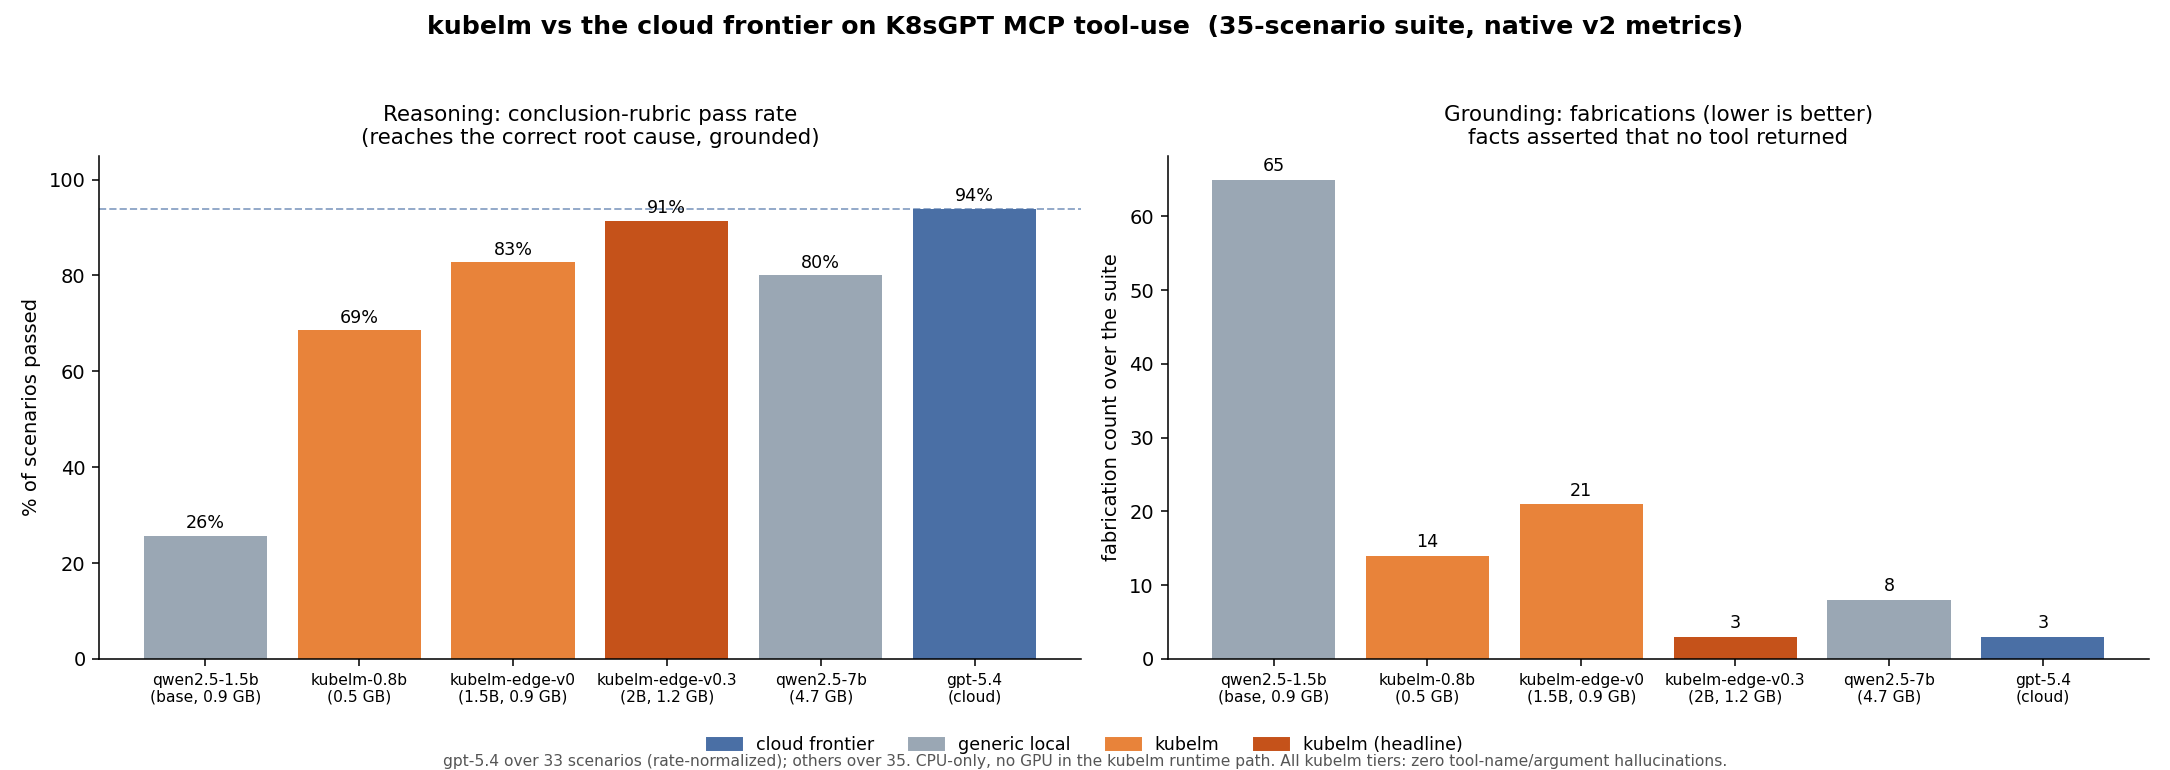
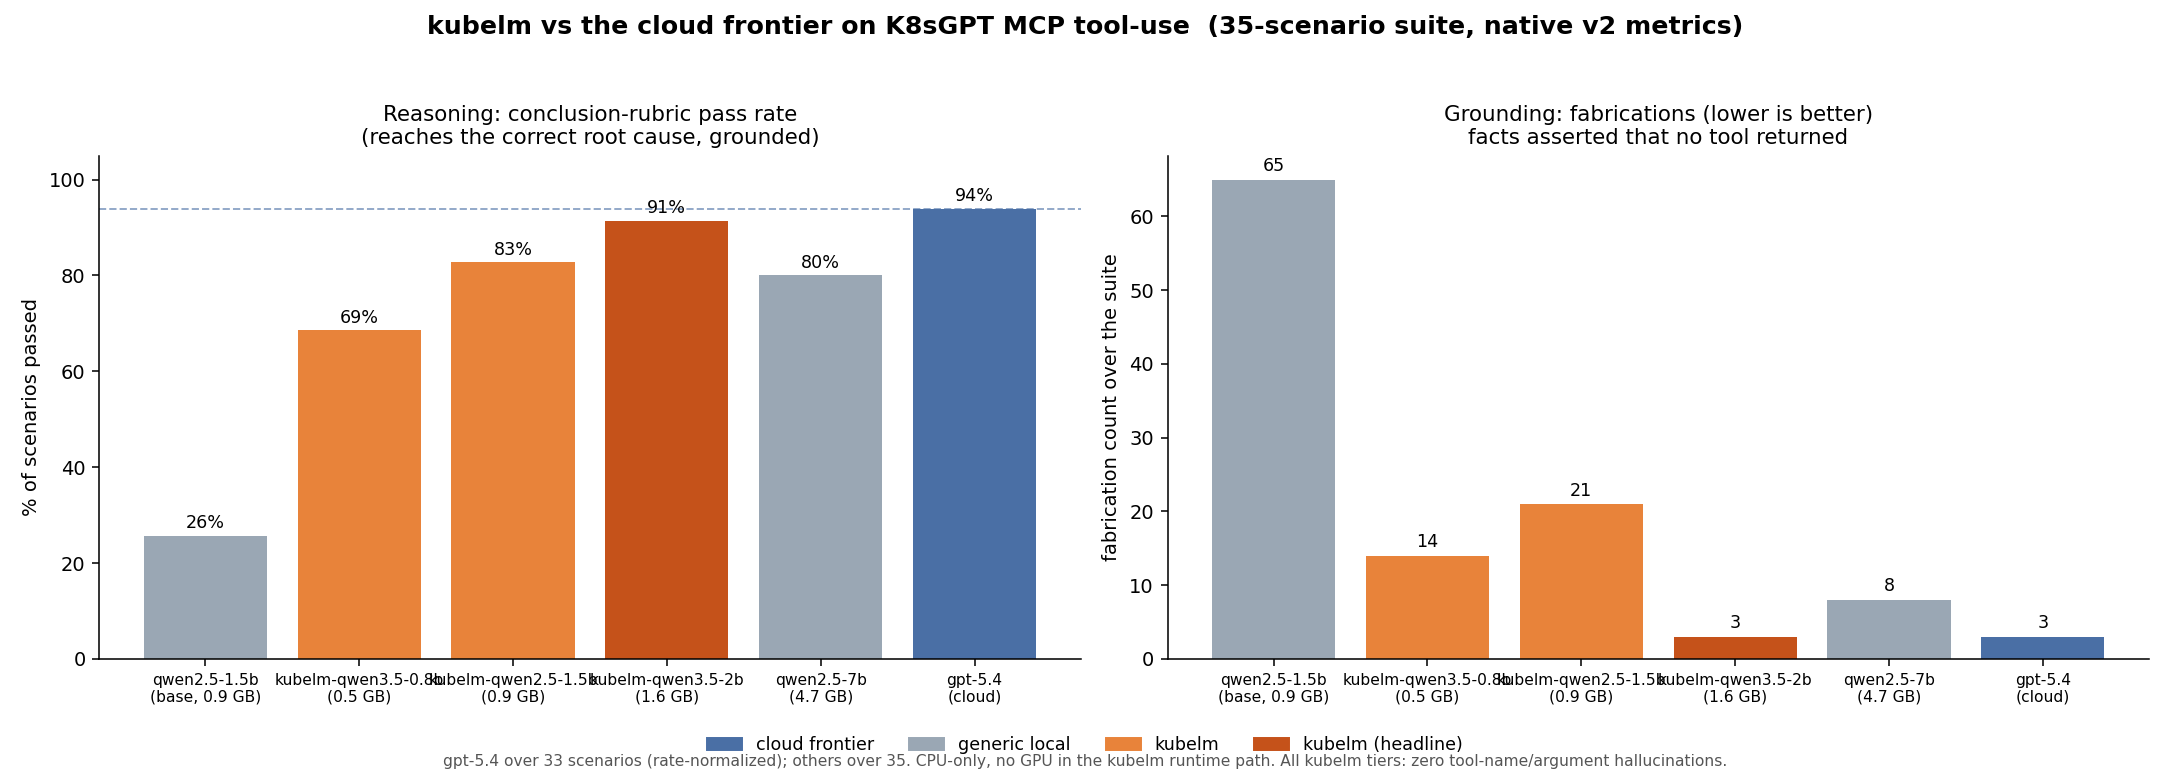
Rename models to kubelm-<base>-<size>-v<n> across repo + docs
Adopt the new naming convention everywhere current-facing:
  kubelm-edge-v0    -> kubelm-qwen2.5-1.5b-v1
  kubelm-edge-v0.3  -> kubelm-qwen3.5-2b-v1
  0.8B (unreleased) -> kubelm-qwen3.5-0.8b-v1

- PROJECT.md: authoritative "Model & artifact naming convention" section
  + old->new mapping; thesis/ladder updated.
- README, ROADMAP tier ladder, DATASET_CARD released-models, chart
  (values/README), deployment guide, comparison-chart labels: new names.
- chart model.hfRepo/hfFile/servedName point at the new repo names.
- Historical records (dated decisions-log entries, as-run bench
  summaries) keep the old names by design; the mapping table translates.

NOTE: HF repos not yet republished under the new names, so the chart's
hfRepo will ImagePullBackOff until the republish lands (next step).

Changed region(s): [[0.6175, 0.8727, 0.8336, 0.9351], [0.1235, 0.8727, 0.3396, 0.9351]]

diff --git a/eval/results/summaries/plot_kubelm_comparison.py b/eval/results/summaries/plot_kubelm_comparison.py
@@ -52,16 +52,16 @@ ROWS = [
         35,
         sd["qwen2.5-1.5b"]["fabs"],
     ),
-    ("kubelm-0.8b\n(0.5 GB)", "kubelm", 24, 35, 14),
+    ("kubelm-qwen3.5-0.8b\n(0.5 GB)", "kubelm", 24, 35, 14),
     (
-        "kubelm-edge-v0\n(1.5B, 0.9 GB)",
+        "kubelm-qwen2.5-1.5b\n(0.9 GB)",
         "kubelm",
         sd["kubelm-edge-v0"]["rubric"],
         35,
         sd["kubelm-edge-v0"]["fabs"],
     ),
     (
-        "kubelm-edge-v0.3\n(2B, 1.2 GB)",
+        "kubelm-qwen3.5-2b\n(1.6 GB)",
         "kubelm-hi",
         sd["kubelm-edge-v0.3"]["rubric"],
         35,

diff --git a/PROJECT.md b/PROJECT.md
@@ -193,9 +193,9 @@ the tier above. All numbers measured (see the 2026-05-29 decisions-log entry
 
 | Tier | Model | Rubric | Serving RAM | Per-step (2-core x86) | Release |
 |---|---|---|---|---|---|
-| ultra-edge | Qwen3.5-0.8B | 24/35 | ~0.9 GB | ~16–32 s | fine-tuned, unreleased |
-| edge | Qwen2.5-1.5B (`kubelm-edge-v0`) | 29/35 | ~1.1 GB | ~20–40 s | on HF |
-| edge+ *(default)* | Qwen3.5-2B (`kubelm-edge-v0.3`) | 32/35 | ~1.6 GB | ~29–55 s | on HF |
+| ultra-edge | `kubelm-qwen3.5-0.8b-v1` | 24/35 | ~0.9 GB | ~16–32 s | fine-tuned, unreleased |
+| edge | `kubelm-qwen2.5-1.5b-v1` | 29/35 | ~1.1 GB | ~20–40 s | on HF |
+| edge+ *(default)* | `kubelm-qwen3.5-2b-v1` | 32/35 | ~1.6 GB | ~29–55 s | on HF |
 | standard | ~3B | — | — | — | planned |
 
 Two corrections from the original plan (a static 3-tier `edge`/`standard`/
@@ -205,6 +205,32 @@ than the early estimates — every tier fits a 4 GB node, so CPU/latency, not
 RAM, is the binding constraint.** Latency is a dedicated-vCPU reference;
 it swings ~10× by host. Original sequencing ("ship `standard` first") was
 also superseded — the edge tiers shipped first and v0.3 is the headline.
+
+### Model & artifact naming convention
+
+Canonical form: **`kubelm-<base>-<size>-v<n>`** — e.g. `kubelm-qwen3.5-2b-v1`.
+
+- `<base>` is the base model (`qwen3.5`, `qwen2.5`) — changes only when the
+  base changes (a re-base resets `-v` to 1).
+- `<size>` is the parameter count (`0.8b`, `1.5b`, `2b`, `3b`) — what users
+  pick by; tier words (ultra-edge/edge/edge+/standard) are docs labels only.
+- `-v<n>` is kubelm's release version of that base+size (bump per retrain),
+  distinct from the base's own version.
+- Dashes separate fields; dots only ever live *inside* a number
+  (`qwen3.5`, `0.8b`) — `split("-")` is unambiguous, matching the ecosystem.
+- **One Hugging Face repo per version**, holding the GGUF + LoRA adapter +
+  card; the format lives in the *filename* (`*.Q4_K_M.gguf`), not a `-GGUF`
+  repo suffix. GGUF is the deployable; the adapter is for re-merging.
+
+Old → new mapping (the old names remain in dated decisions-log entries and
+as-run benchmark records — those are historical and not rewritten):
+
+| old | new |
+|---|---|
+| `kubelm-edge-v0` (Qwen2.5-1.5B) | `kubelm-qwen2.5-1.5b-v1` |
+| `kubelm-edge-v0.3` (Qwen3.5-2B) | `kubelm-qwen3.5-2b-v1` |
+| 0.8B fine-tune (unreleased) | `kubelm-qwen3.5-0.8b-v1` |
+| HF `…-v0.3-GGUF` + `…-v0.3-lora` | one repo `kubelm-qwen3.5-2b-v1` |
 
 ### Performance is a primary design constraint
 

diff --git a/README.md b/README.md
@@ -14,7 +14,7 @@ K8sGPT's MCP surface as it evolves.
 
 > **Status:** Working. The eval harness + scenario library are shipped, the
 > baseline benchmark is published, and two models are released on Hugging
-> Face — **`kubelm-edge-v0.3`** (Qwen3.5-2B) is the current headline and
+> Face — **`kubelm-qwen3.5-2b-v1`** (Qwen3.5-2B) is the current headline and
 > beats `qwen2.5:7b` on every reliability metric at ~⅓ the footprint. A
 > **turnkey Helm chart** deploys kubelm + K8sGPT + an MCP agent loop in one
 > `helm install`. See the tier ladder and phase status below.
@@ -138,13 +138,13 @@ smallest local box up to a dev machine; each tier is judged on fitness for
 
 | Tier | Model | Rubric¹ | Serving RAM² | Per-step³ | Release |
 |---|---|---|---|---|---|
-| ultra-edge | Qwen3.5-0.8B | 24/35 | ~0.9 GB | ~16–32 s | fine-tuned; not yet on HF |
-| edge | Qwen2.5-1.5B (`kubelm-edge-v0`) | 29/35 | ~1.1 GB | ~20–40 s | on Hugging Face |
-| **edge+** *(default)* | Qwen3.5-2B (`kubelm-edge-v0.3`) | **32/35** | ~1.6 GB | ~29–55 s | on Hugging Face |
+| ultra-edge | `kubelm-qwen3.5-0.8b-v1` | 24/35 | ~0.9 GB | ~16–32 s | fine-tuned; not yet on HF |
+| edge | `kubelm-qwen2.5-1.5b-v1` | 29/35 | ~1.1 GB | ~20–40 s | on Hugging Face |
+| **edge+** *(default)* | `kubelm-qwen3.5-2b-v1` | **32/35** | ~1.6 GB | ~29–55 s | on Hugging Face |
 | standard | ~3B | — | — | — | planned |
 
 *For reference, the `qwen2.5:7b` local model scores rubric 28/35 on the same
-suite — so `kubelm-edge-v0.3` beats a 7B generic model at ~⅓ the footprint,
+suite — so `kubelm-qwen3.5-2b-v1` beats a 7B generic model at ~⅓ the footprint,
 and even the 0.8B is competitive.*
 
 ¹ Conclusion-rubric pass rate over the 35-scenario library (does the model
@@ -217,8 +217,8 @@ This repo grows in stages. Each stage is a separately-useful artifact:
       the eval. *Shipped; cuts in `eval/results/summaries/`.*
 - [x] **Phase 4: Trajectory training dataset** — multi-step examples on
       Hugging Face (`kubelm-seed`), pinned to K8sGPT v0.4.32. *Shipped.*
-- [x] **Phase 5: Fine-tuned model releases** — `kubelm-edge-v0` (1.5B) and
-      `kubelm-edge-v0.3` (Qwen3.5-2B) on Hugging Face; v0.3 beats
+- [x] **Phase 5: Fine-tuned model releases** — `kubelm-qwen2.5-1.5b-v1` and
+      `kubelm-qwen3.5-2b-v1` (the headline) on Hugging Face; the 2B beats
       `qwen2.5:7b` on every metric (rubric 32 vs 28, fabrications 3 vs 8)
       at ~⅓ the footprint. A Qwen3.5-0.8B ultra-edge tier is fine-tuned
       (rubric 24, 517 MB) but not yet released. *Shipped.*
@@ -238,8 +238,8 @@ Each phase shipped publicly before the next began.
 
 - **GitHub:** This repo is the source of truth for code, datasets, and
   benchmark results.
-- **Hugging Face:** [`kubelm-edge-v0.3-GGUF`](https://huggingface.co/rbentaarit/kubelm-edge-v0.3-GGUF)
-  (current headline) and [`kubelm-edge-v0`](https://huggingface.co/rbentaarit/kubelm-edge-v0)
+- **Hugging Face:** [`kubelm-qwen3.5-2b-v1`](https://huggingface.co/rbentaarit/kubelm-qwen3.5-2b-v1)
+  (current headline) and [`kubelm-qwen2.5-1.5b-v1`](https://huggingface.co/rbentaarit/kubelm-qwen2.5-1.5b-v1)
   models; the [`kubelm-seed`](https://huggingface.co/datasets/rbentaarit/kubelm-seed)
   trajectory dataset.
 - **Blog posts:** Major milestones will be written up. Links added here as

diff --git a/data/seed/DATASET_CARD.md b/data/seed/DATASET_CARD.md
@@ -192,20 +192,18 @@ Each record carries the eval harness's read-outs:
 
 ### Models trained on this dataset
 
-- **`kubelm-edge-v0`** (1.5B, Qwen 2.5 base) — released
-  2026-05-14. Trained on the 319 positives (29 seeds + 290
-  variants); negatives excluded for v0 because all 46 carry
+- **`kubelm-qwen2.5-1.5b-v1`** (Qwen2.5-1.5B base; formerly
+  `kubelm-edge-v0`) — released 2026-05-14. Trained on the 319 positives
+  (29 seeds + 290 variants); negatives excluded because all 46 carry
   `review_status: unreviewed`.
-  - LoRA adapter: [`rbentaarit/kubelm-edge-v0-lora`](https://huggingface.co/rbentaarit/kubelm-edge-v0-lora)
-  - Q4_K_M GGUF: [`rbentaarit/kubelm-edge-v0-GGUF`](https://huggingface.co/rbentaarit/kubelm-edge-v0-GGUF)
+  - One repo (GGUF + LoRA): [`rbentaarit/kubelm-qwen2.5-1.5b-v1`](https://huggingface.co/rbentaarit/kubelm-qwen2.5-1.5b-v1)
   - Eval result vs base 1.5B: `complete` 8→29/30, `rubric_pass`
     10→23/30, `ref_pass` 3→21/30. Full row in
     [`eval/results/summaries/kubelm-edge-v0-2026-05-14.json`](https://github.com/rbentaarit/kubelm/blob/main/eval/results/summaries/kubelm-edge-v0-2026-05-14.json).
-- **`kubelm-edge-v0.3`** (2B, Qwen 3.5 base) — released
-  2026-05-27. Trained on the v0.2 corpus (561 records, see below).
-  Supersedes `kubelm-edge-v0` as the headline deployable.
-  - LoRA adapter: [`rbentaarit/kubelm-edge-v0.3-lora`](https://huggingface.co/rbentaarit/kubelm-edge-v0.3-lora)
-  - Q4_K_M GGUF: [`rbentaarit/kubelm-edge-v0.3-GGUF`](https://huggingface.co/rbentaarit/kubelm-edge-v0.3-GGUF)
+- **`kubelm-qwen3.5-2b-v1`** (Qwen3.5-2B base; formerly
+  `kubelm-edge-v0.3`) — released 2026-05-27. Trained on the v0.2 corpus
+  (561 records, see below). The headline deployable.
+  - One repo (GGUF + LoRA): [`rbentaarit/kubelm-qwen3.5-2b-v1`](https://huggingface.co/rbentaarit/kubelm-qwen3.5-2b-v1)
   - Eval result on the 35-scenario library: `rubric_pass` 32/35,
     `ref_pass` 32/35, `fabrications` 3, `schema_pass` 35/35,
     `complete` 35/35, zero argument/name hallucinations. Beats

diff --git a/docs/deploying-kubelm-with-k8sgpt.md b/docs/deploying-kubelm-with-k8sgpt.md
@@ -17,9 +17,9 @@ model for its bracket, not a downgrade of the one above.
 
 | tier | model | serving RAM¹ | rubric | step @2-core x86¹ | HF repo |
 |---|---|---|---|---|---|
-| ultra-edge | Qwen3.5-0.8B | ~0.9 GB | 24/35 | ~16–32 s | *(unreleased; local only)* |
-| edge | Qwen2.5-1.5B (v0) | ~1.1 GB | 29/35 | ~20–40 s | `rbentaarit/kubelm-edge-v0` |
-| **edge+** *(default)* | Qwen3.5-2B (v0.3) | ~1.6 GB | 32/35 | ~29–55 s | `rbentaarit/kubelm-edge-v0.3-GGUF` |
+| ultra-edge | Qwen3.5-0.8B | ~0.9 GB | 24/35 | ~16–32 s | `kubelm-qwen3.5-0.8b-v1` *(unreleased)* |
+| edge | Qwen2.5-1.5B | ~1.1 GB | 29/35 | ~20–40 s | `rbentaarit/kubelm-qwen2.5-1.5b-v1` |
+| **edge+** *(default)* | Qwen3.5-2B | ~1.6 GB | 32/35 | ~29–55 s | `rbentaarit/kubelm-qwen3.5-2b-v1` |
 
 ¹ Serving footprint is measured (`--no-mmap` RSS, host-independent).
 Per-step latency is measured on a **dedicated** x86 Linux 2-core node
@@ -62,7 +62,7 @@ Pre-seed the GGUF onto a PersistentVolume and point the chart at it:
 helm install kubelm deploy/helm/kubelm -n kubelm --create-namespace \
   --set cache.persistence.enabled=true \
   --set model.hfRepo="" \
-  --set model.localPath=/cache/kubelm-edge.Q4_K_M.gguf
+  --set model.localPath=/cache/kubelm-qwen3.5-2b-v1.Q4_K_M.gguf
 ```
 
 (Copy the GGUF into the PVC out-of-band, e.g. a one-shot loader Job.)
@@ -74,12 +74,12 @@ Point K8sGPT's OpenAI-compatible backend at the in-cluster Service:
 ```bash
 k8sgpt auth add --backend customrest \
   --baseurl http://kubelm.kubelm.svc:8080/v1 \
-  --model kubelm-edge
+  --model kubelm-qwen3.5-2b
 k8sgpt analyze --explain --backend customrest
 ```
 
 The served model name (`--model`) must match `model.servedName` in
-values (default `kubelm-edge`).
+values (default `kubelm-qwen3.5-2b`).
 
 ## 4. Restrict access (shared clusters)
 

diff --git a/ROADMAP.md b/ROADMAP.md
@@ -516,9 +516,9 @@ bracket**, not against the tier above.
 
 | tier | model | GGUF | serving RAM¹ | rubric | step @2-core x86² | serving |
 |---|---|---|---|---|---|---|
-| ultra-edge | Qwen3.5-0.8B (1ep) | 517 MB | **~0.9 GB** | 24/35 | ~16–32 s | llama-server |
-| edge | Qwen2.5-1.5B (v0) | 940 MB | ~1.1 GB (est) | 29/35³ | ~20–40 s (est) | ollama or llama-server |
-| edge+ | Qwen3.5-2B (v0.3) | 1.2 GB | **~1.6 GB** | 32/35 | ~29–55 s | llama-server |
+| ultra-edge | `kubelm-qwen3.5-0.8b-v1` | 517 MB | **~0.9 GB** | 24/35 | ~16–32 s | llama-server |
+| edge | `kubelm-qwen2.5-1.5b-v1` | 940 MB | ~1.1 GB (est) | 29/35³ | ~20–40 s (est) | ollama or llama-server |
+| edge+ | `kubelm-qwen3.5-2b-v1` | 1.2 GB | **~1.6 GB** | 32/35 | ~29–55 s | llama-server |
 | standard | ~3B (planned) | — | — | — | — | — |
 
 ¹ True serving footprint (`--no-mmap` RSS) at `-c 16384` on real x86

diff --git a/deploy/helm/kubelm/README.md b/deploy/helm/kubelm/README.md
@@ -21,9 +21,9 @@ K8sGPT wiring, the turnkey loop, air-gapped, NetworkPolicy — in
 
 | key | default | purpose |
 |---|---|---|
-| `model.hfRepo` / `model.hfFile` | `rbentaarit/kubelm-edge-v0.3-GGUF` | GGUF pulled at pod start |
+| `model.hfRepo` / `model.hfFile` | `rbentaarit/kubelm-qwen3.5-2b-v1` | GGUF pulled at pod start |
 | `model.localPath` | `""` | pre-seeded GGUF path (air-gapped); overrides hfRepo |
-| `model.servedName` | `kubelm-edge` | name K8sGPT references |
+| `model.servedName` | `kubelm-qwen3.5-2b` | name K8sGPT references |
 | `server.contextSize` | `16384` | llama-server `-c` |
 | `resources` | req 2 CPU/2 Gi, lim 4 CPU/3 Gi | edge+; matches measured footprint |
 | `networkPolicy.enabled` | `false` | restrict endpoint to K8sGPT |